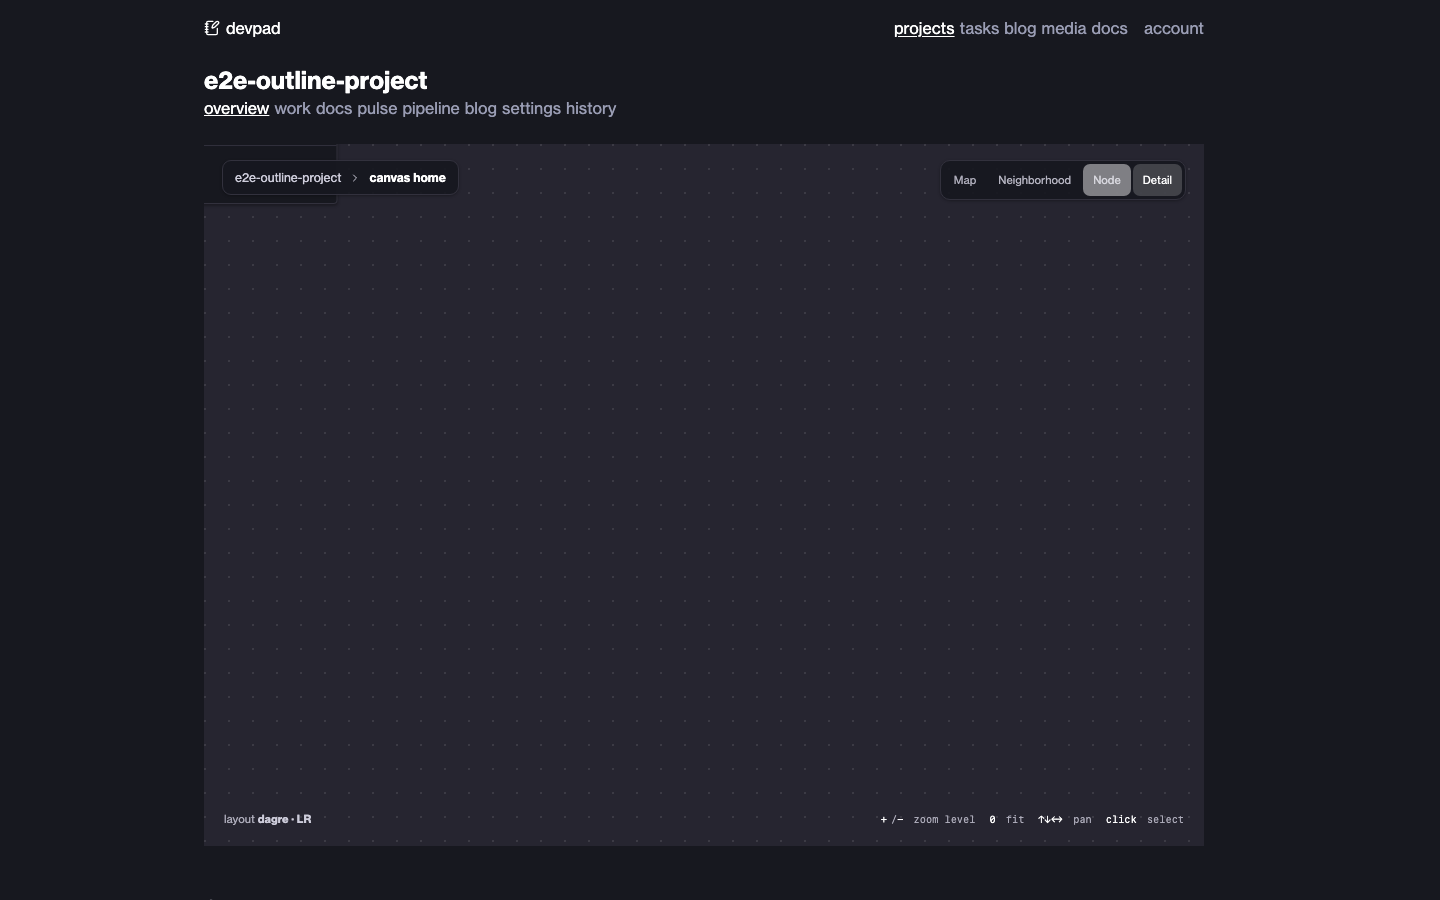
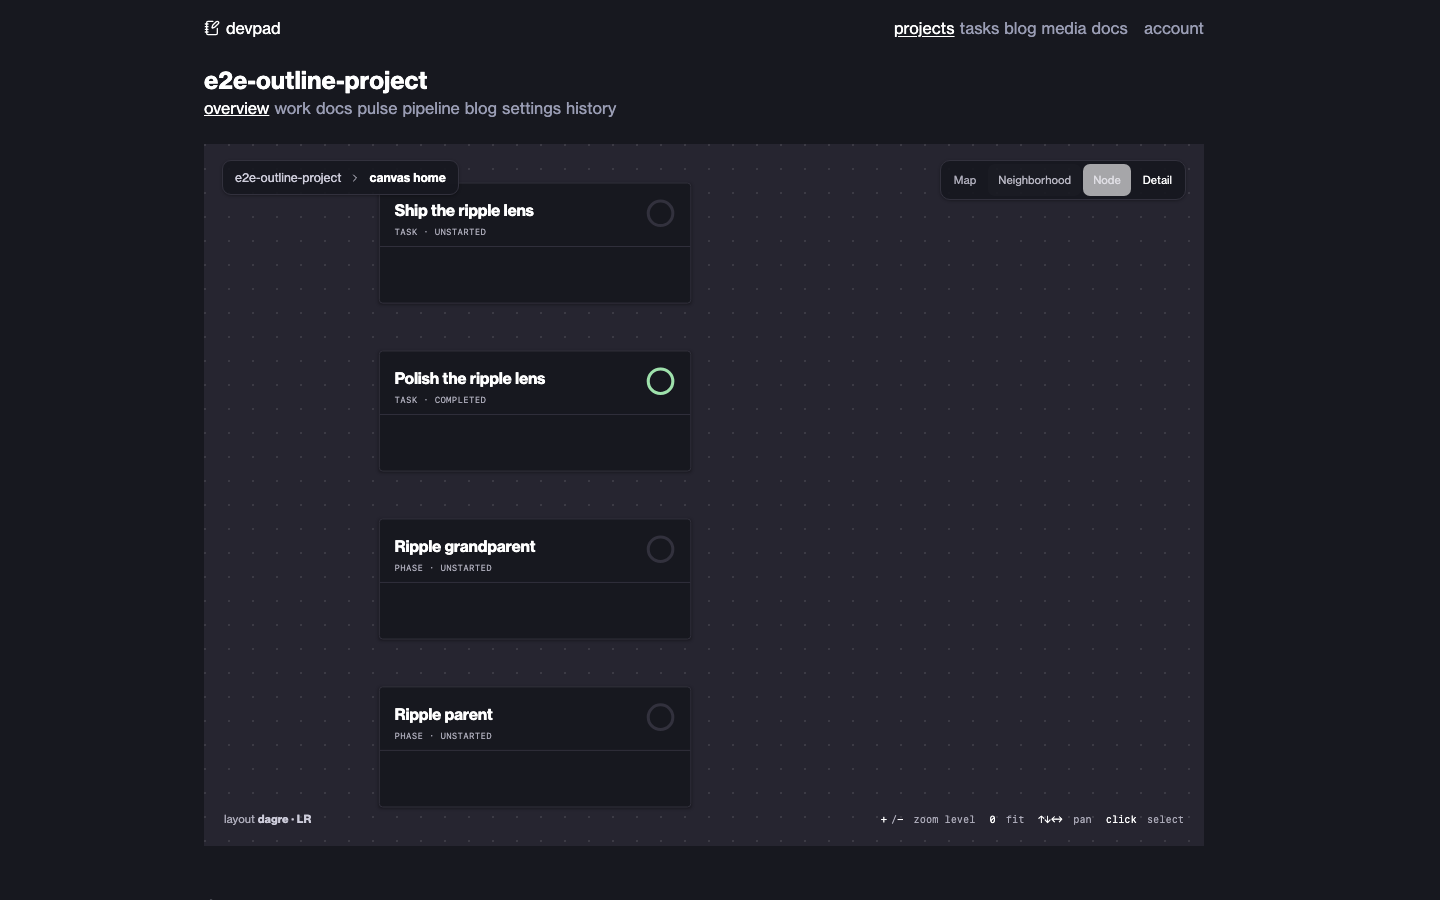
fix: keep canvas camera framed on stepped zoom without a pan
motivation:
---
- P2.5 verification found that stepping the HUD Map -> Neighborhood -> Node
  -> Detail without panning first left content drifting off-screen, since
  `zoom_to` without an explicit anchor always anchored on the viewport
  center instead of the content
- the UX contract (`.plans/canvas-mock.html`) requires content to stay
  framed at every zoom level

approach:
---
- added `camera.set_focus(point | null)`: a world-space point `zoom_to`
  anchors on when no explicit screen anchor is passed
- `zoom_to` without an anchor now prefers the focus point, falls back to
  the content-bounds center, and only falls back to the old
  viewport-center-anchored behaviour when neither is set (empty canvas)
- `canvas-surface.tsx` wires `set_focus` to the selected node's layout
  center so travelling levels after a selection frames that node instead
  of drifting back to the bounds center
- cursor-anchored wheel zoom is untouched — it always passes an explicit
  screen anchor, which still takes the fast path

testing:
---
- added camera.test.ts coverage: stepping fit() -> all 4 levels keeps the
  content-bounds center on-screen, and a set_focus point is preferred over
  the bounds center
- bun test apps/main/src/components/solid/canvas/: 22 pass
- bunx oxlint on camera.ts + canvas-surface.tsx: clean
- TEST_ENV=local CAPTURE_CANVAS=1 playwright test canvas-core.spec.ts: 6/6
  pass, re-captured all 8 proof screenshots (detail level no longer shows
  a near-empty viewport)
[…]

diff --git a/apps/main/src/components/solid/canvas/camera.ts b/apps/main/src/components/solid/canvas/camera.ts
@@ -7,6 +7,13 @@ import { createRoot, createSignal, untrack, type Accessor } from "solid-js";
  * semantic zoom levels, a content-bounds clamp so pan/zoom never shows only
  * void, and an `is_moving` signal LOD swaps can debounce against.
  *
+ * `zoom_to`/`zoom_in`/`zoom_out` without an explicit screen anchor keep
+ * content framed rather than defaulting to the viewport center: they anchor
+ * on `set_focus`'s point (world coords — callers set this to the selected
+ * node's center) when one is set, else on the content-bounds center, else
+ * fall back to the old viewport-center-anchored behaviour. Cursor-anchored
+ * wheel zoom always passes an explicit anchor, so it's unaffected.
+ *
  * Deliberately DOM-free: callers pass plain structural event shapes
  * (`WheelInput`/`PointerInput`/`KeyInput`) instead of real `WheelEvent` /
  * `PointerEvent` — native events satisfy these shapes, but it keeps this
@@ -56,6 +63,7 @@ export type Camera = {
 	readonly zoom_in: (anchor?: Point) => void;
 	readonly zoom_out: (anchor?: Point) => void;
 	readonly fit: () => void;
+	readonly set_focus: (point: Point | null) => void;
 	readonly set_content_bounds: (bounds: ContentBounds | null) => void;
 	readonly set_viewport: (viewport: ViewportSize) => void;
 	readonly handle_key: (e: KeyInput) => void;
@@ -136,6 +144,7 @@ export function create_camera(opts: CameraOptions = {}): Camera {
 		const [is_moving, set_is_moving] = createSignal(false);
 
 		let bounds: ContentBounds | null = null;
+		let focus: Point | null = null;
 		let viewport: ViewportSize = { width: 0, height: 0 };
 		let dragging = false;
 		let last_point: Point = { x: 0, y: 0 };
@@ -186,14 +195,26 @@ export function create_camera(opts: CameraOptions = {}): Camera {
 			animation_frame = raf(step);
 		};
 
+		const default_focus_world = (): Point | null => {
+			if (focus) return focus;
+			if (bounds && bounds.w > 0 && bounds.h > 0) return { x: bounds.x + bounds.w / 2, y: bounds.y + bounds.h / 2 };
+			return null;
+		};
+
 		const zoom_to = (target_level: CameraLevel, anchor?: Point) => {
 			const t = transform();
-			const point = anchor ?? { x: viewport.width / 2, y: viewport.height / 2 };
 			const target_scale = LEVEL_SCALE[target_level];
-			const world_x = (point.x - t.x) / t.scale;
-			const world_y = (point.y - t.y) / t.scale;
+			const screen_point = anchor ?? { x: viewport.width / 2, y: viewport.height / 2 };
+			const world_point =
+				anchor !== undefined
+					? { x: (anchor.x - t.x) / t.scale, y: (anchor.y - t.y) / t.scale }
+					: (default_focus_world() ?? { x: (screen_point.x - t.x) / t.scale, y: (screen_point.y - t.y) / t.scale });
 			animate_to(
-				{ x: point.x - world_x * target_scale, y: point.y - world_y * target_scale, scale: target_scale },
+				{
+					x: screen_point.x - world_point.x * target_scale,
+					y: screen_point.y - world_point.y * target_scale,
+					scale: target_scale,
+				},
 				target_level,
 			);
 		};
@@ -281,6 +302,9 @@ export function create_camera(opts: CameraOptions = {}): Camera {
 			bounds = next_bounds;
 			apply_clamped(untrack(transform));
 		};
+		const set_focus = (point: Point | null) => {
+			focus = point;
+		};
 		const set_viewport = (next_viewport: ViewportSize) => {
 			viewport = next_viewport;
 			apply_clamped(untrack(transform));
@@ -344,6 +368,7 @@ export function create_camera(opts: CameraOptions = {}): Camera {
 			zoom_in: (anchor?: Point) => step_level(1, anchor),
 			zoom_out: (anchor?: Point) => step_level(-1, anchor),
 			fit,
+			set_focus,
 			set_content_bounds,
 			set_viewport,
 			handle_key,

diff --git a/apps/main/src/components/solid/canvas/camera.test.ts b/apps/main/src/components/solid/canvas/camera.test.ts
@@ -1,5 +1,5 @@
 import { describe, expect, test } from "bun:test";
-import { create_camera, LEVEL_SCALE, type WheelInput } from "./camera";
+import { CAMERA_LEVELS, create_camera, LEVEL_SCALE, type WheelInput } from "./camera";
 
 const wheel = (partial: Partial<WheelInput>): WheelInput => ({
 	offsetX: 0,
@@ -159,6 +159,47 @@ describe("fit", () => {
 		camera.fit();
 
 		expect(camera.level()).toBe("map");
+
+		camera.dispose();
+	});
+});
+
+describe("zoom_to without an anchor stays framed", () => {
+	test("stepping through every level from fit() keeps the content-bounds center on-screen", () => {
+		const camera = create_camera({ animation_ms: 0 });
+		const viewport = { width: 1000, height: 800 };
+		camera.set_viewport(viewport);
+		camera.set_content_bounds({ x: 0, y: 0, w: 500, h: 400 });
+
+		camera.fit();
+
+		for (const level of CAMERA_LEVELS) {
+			camera.zoom_to(level);
+			const t = camera.transform();
+			const center_x = t.x + 250 * t.scale;
+			const center_y = t.y + 200 * t.scale;
+			expect(center_x).toBeGreaterThanOrEqual(0);
+			expect(center_x).toBeLessThanOrEqual(viewport.width);
+			expect(center_y).toBeGreaterThanOrEqual(0);
+			expect(center_y).toBeLessThanOrEqual(viewport.height);
+		}
+
+		camera.dispose();
+	});
+
+	test("a set_focus point is preferred over the content-bounds center", () => {
+		const camera = create_camera({ animation_ms: 0 });
+		camera.set_viewport({ width: 1000, height: 800 });
+		camera.set_content_bounds({ x: 0, y: 0, w: 2000, h: 1600 });
+		camera.set_focus({ x: 1800, y: 1400 });
+
+		camera.zoom_to("detail");
+
+		const t = camera.transform();
+		const focus_x = t.x + 1800 * t.scale;
+		const focus_y = t.y + 1400 * t.scale;
+		expect(focus_x).toBeCloseTo(500, 6);
+		expect(focus_y).toBeCloseTo(400, 6);
 
 		camera.dispose();
 	});

diff --git a/apps/main/src/components/solid/canvas/canvas-surface.tsx b/apps/main/src/components/solid/canvas/canvas-surface.tsx
@@ -73,6 +73,15 @@ export default function CanvasSurface(props: CanvasSurfaceProps) {
 		camera.set_content_bounds(l.nodes.length > 0 ? l.bounds : null);
 	});
 
+	// Keeps `zoom_to`/HUD level buttons framed on the selected node instead of
+	// drifting to the content-bounds center once something is selected — see
+	// camera.ts's `zoom_to` doc comment.
+	createEffect(() => {
+		const id = selectedId();
+		const node = id === null ? undefined : layout().nodes.find((n) => n.task.id === id);
+		camera.set_focus(node ? { x: node.x, y: node.y } : null);
+	});
+
 	// Rebuilt only when the layout changes (not per frame) — queried below
 	// against the current viewport world rect for cheap per-frame culling.
 	const spatialIndex = createMemo(() => {
